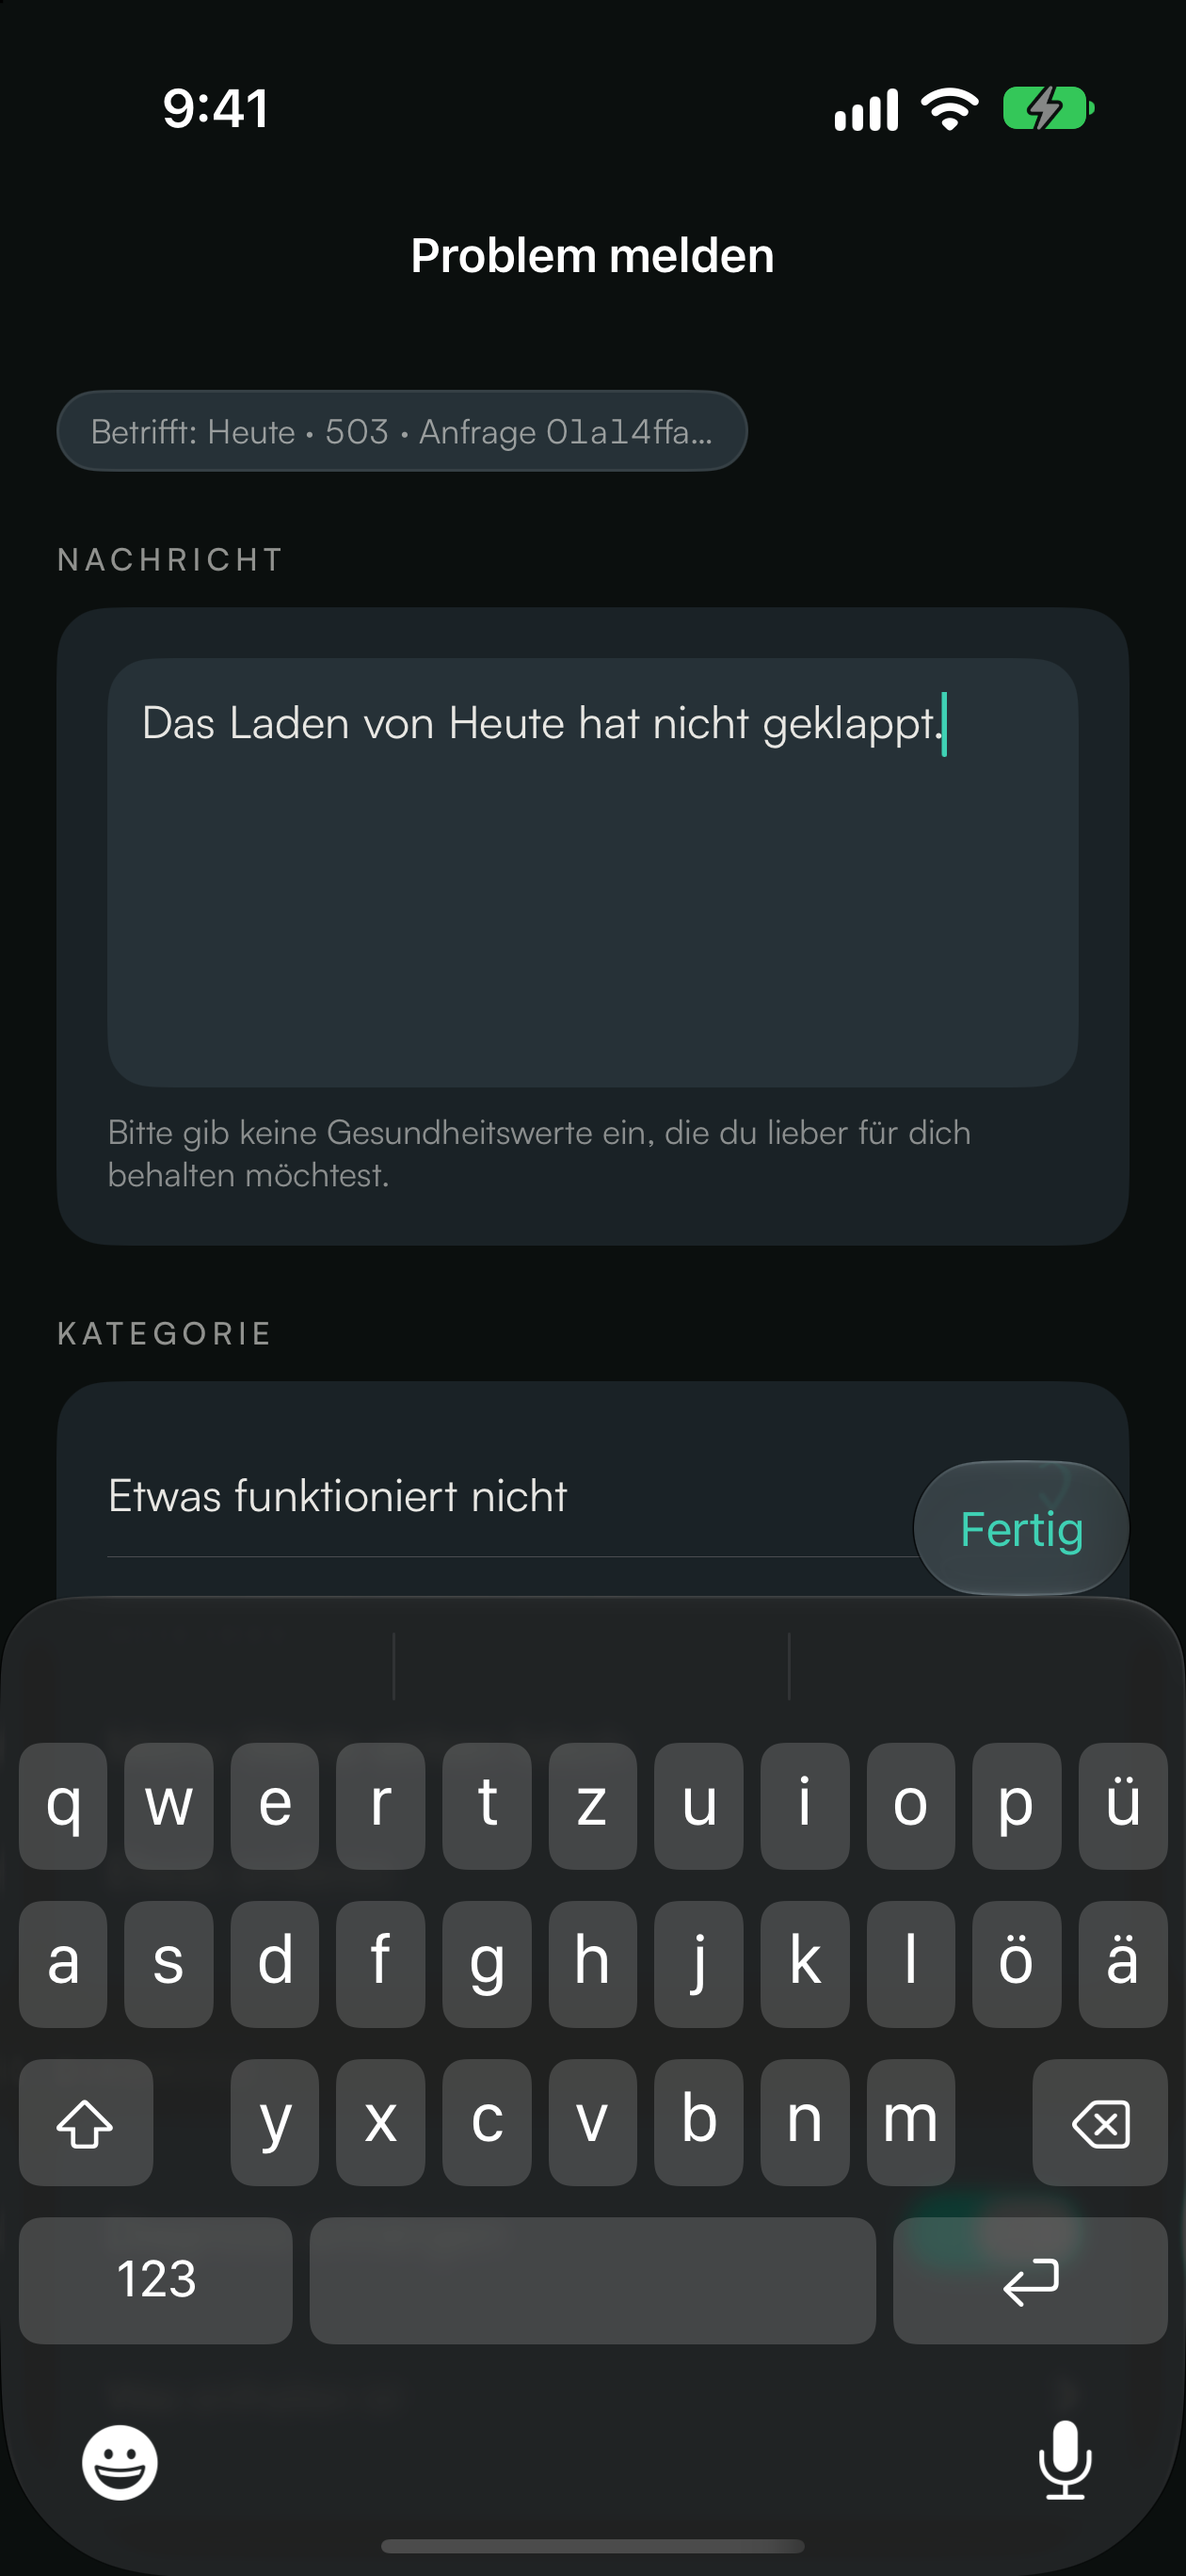
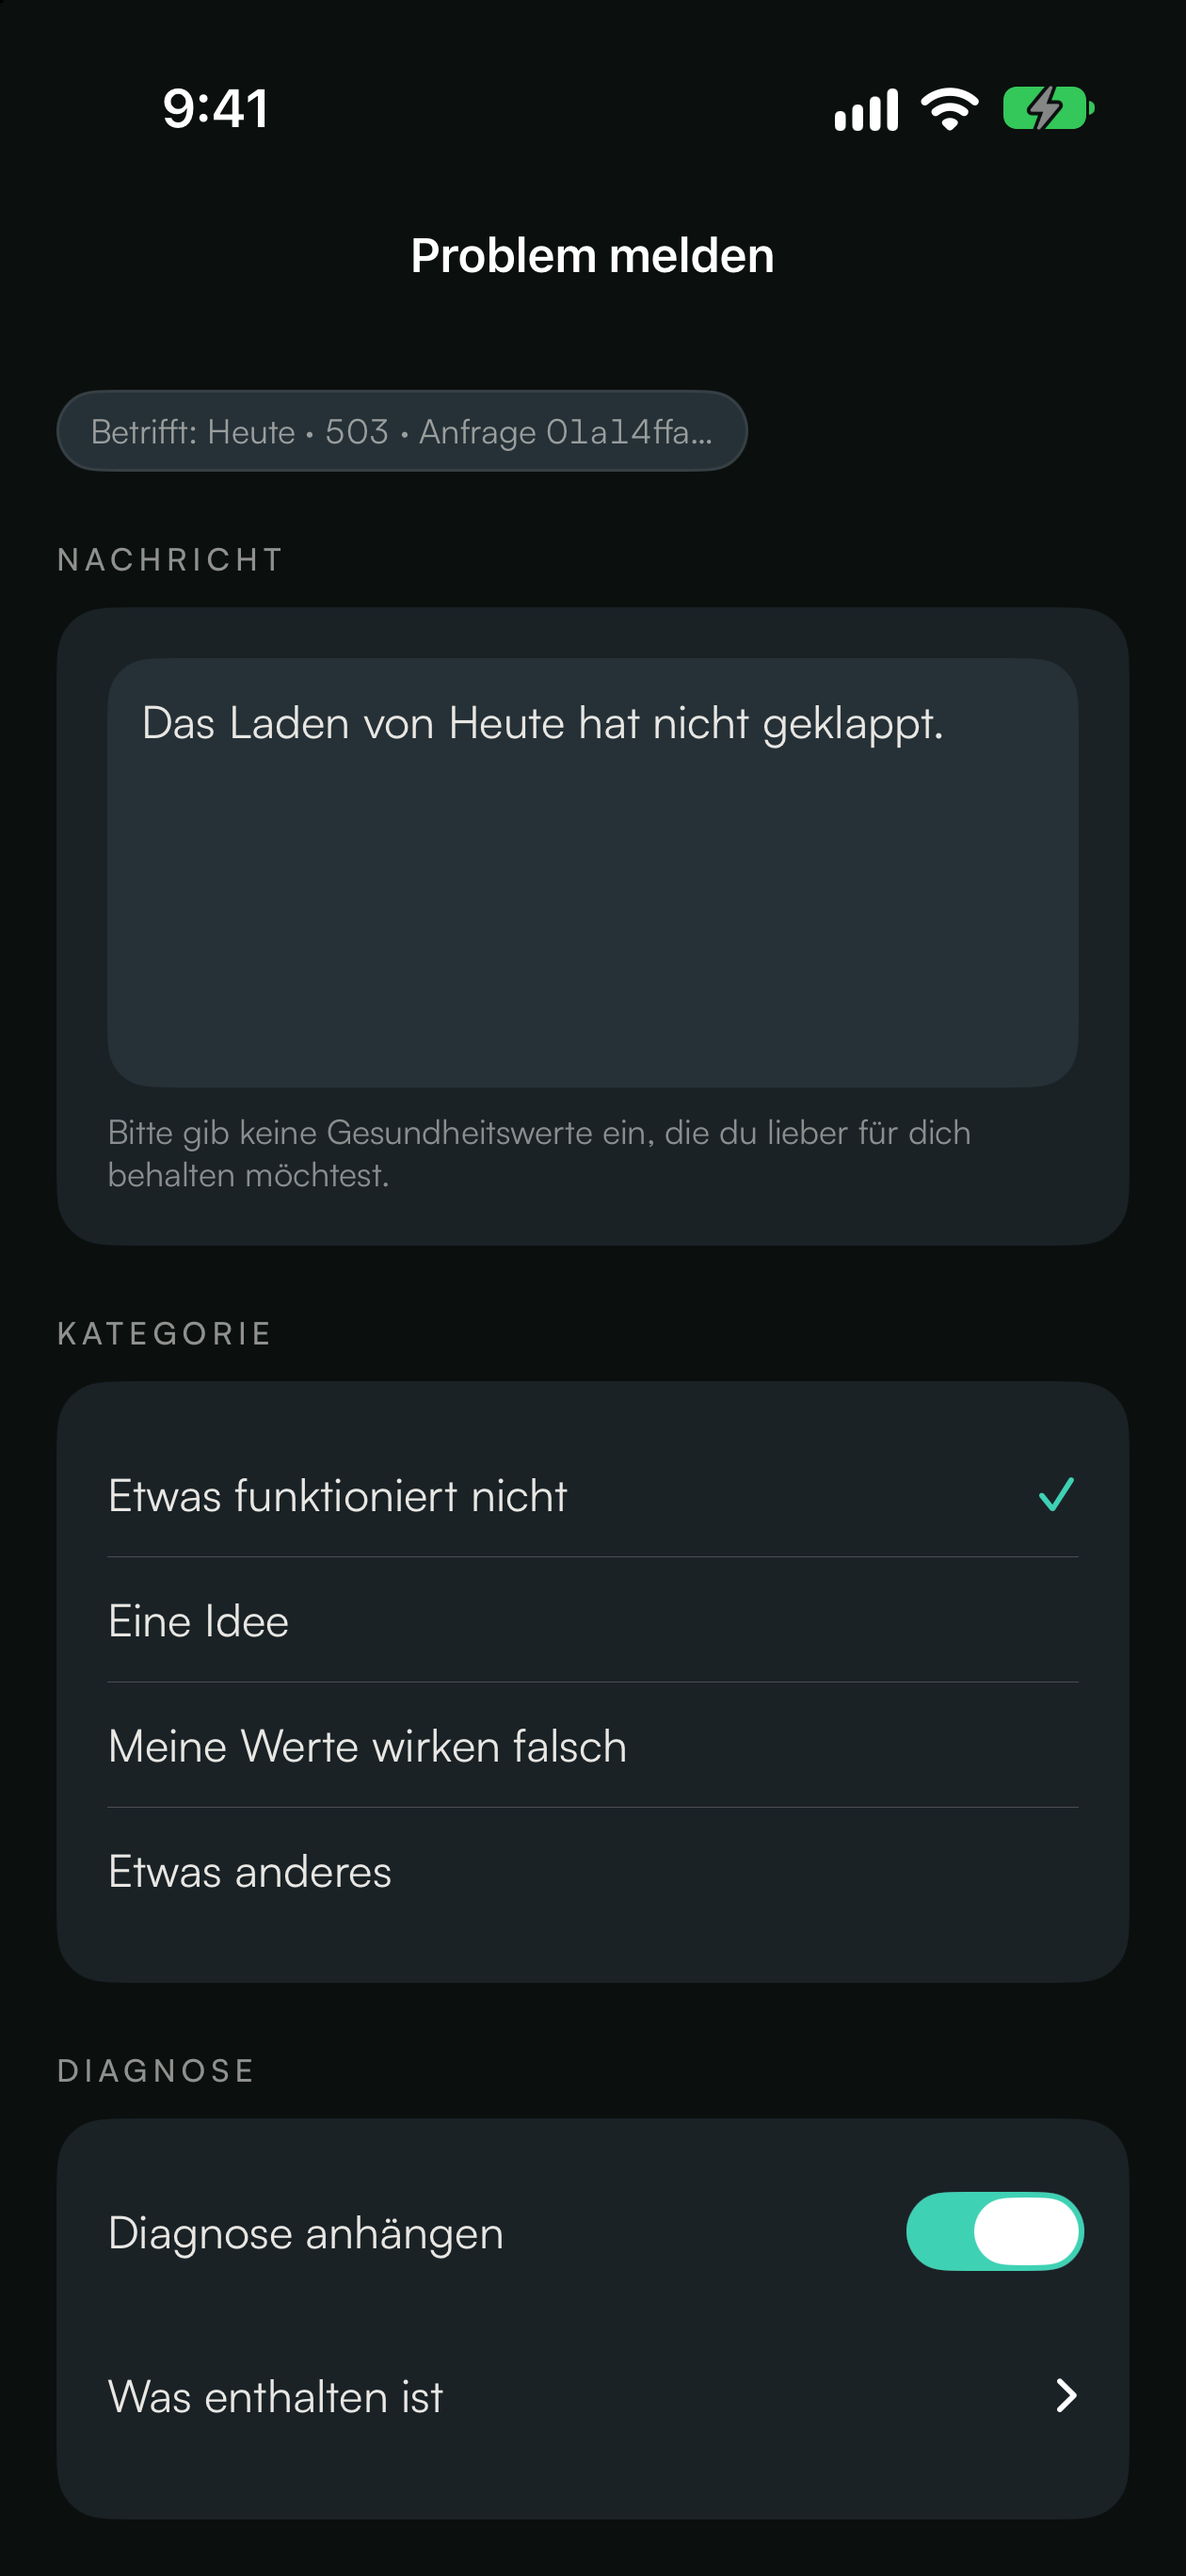
docs: Report a problem screenshots after the review fixes
Re-captured on iPhone Air (dark/light, de for the form, Details and the
disclosure): no keyboard from Details, the row-size disclosure label,
and the new report-problem-included screen with "What's included" open
(debug screen, scrolled to it).

Changed region(s): [[0.0, 0.6213, 1.0, 0.9942], [0.7738, 0.5592, 0.9595, 0.6213], [0.3095, 0.9631, 0.681, 0.9942]]

diff --git a/Ryft/App/RyftApp.swift b/Ryft/App/RyftApp.swift
@@ -454,6 +454,8 @@ enum DebugScreen: String {
     case reportProblem = "report-problem", reportProblemDetails = "report-problem-details"
     case reportProblemSent = "report-problem-sent", reportProblemQueued = "report-problem-queued"
     case reportProblemRateLimited = "report-problem-rate-limited"
+    /// "What's included" open, scrolled to it.
+    case reportProblemIncluded = "report-problem-included"
 
     static var requested: DebugScreen? {
         UserDefaults.standard.string(forKey: "RyftScreen").flatMap(DebugScreen.init(rawValue:))
@@ -480,7 +482,7 @@ enum DebugScreen: String {
         case .bedtime, .tonight:
             DebugBedtime(screen: self)
         case .reportProblem, .reportProblemDetails, .reportProblemSent, .reportProblemQueued,
-             .reportProblemRateLimited:
+             .reportProblemRateLimited, .reportProblemIncluded:
             DebugReportProblem(screen: self)
         }
     }
@@ -531,7 +533,9 @@ private struct DebugReportProblem: View {
         NavigationStack {
             if ready {
                 ReportProblemView(model: screens.profile.report,
-                                  context: screen == .reportProblemDetails ? .preview : nil)
+                                  context: screen == .reportProblemDetails ? .preview : nil,
+                                  showsIncluded: screen == .reportProblemIncluded)
+                    .defaultScrollAnchor(screen == .reportProblemIncluded ? .bottom : .top)
             }
         }
         .task {
